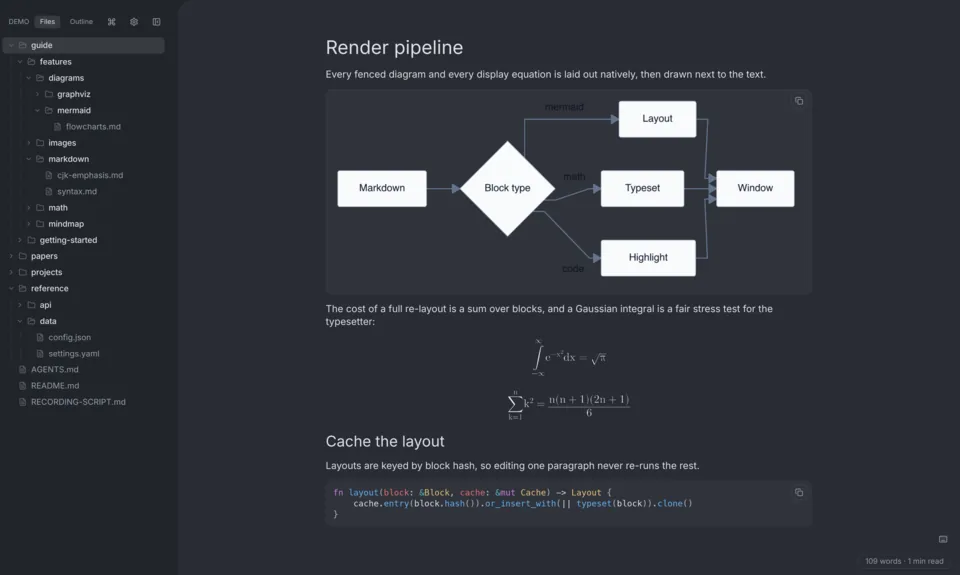
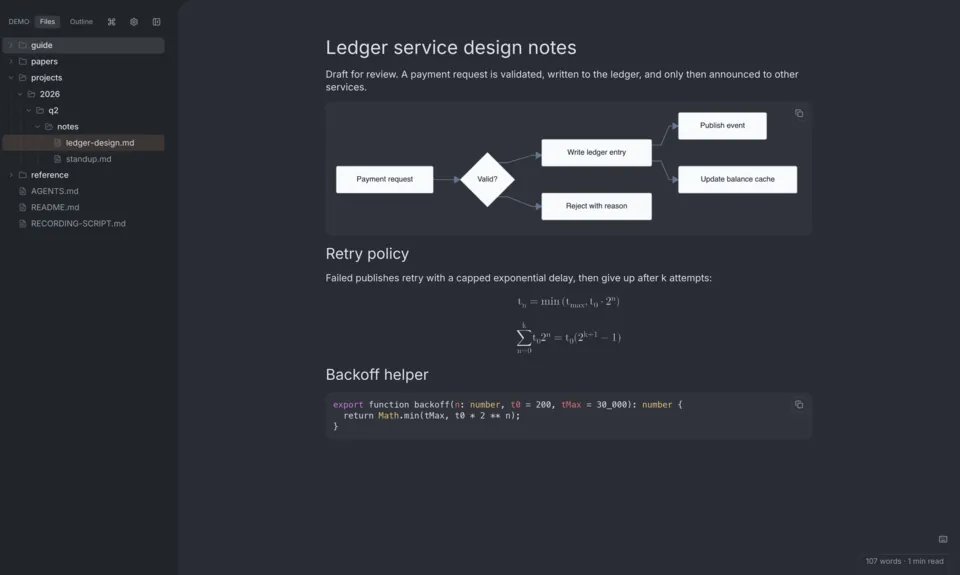
site: hero shows a user's design note, not claims about rmdv internals
Replace the invented pipeline/cache text with a service design note
(flowchart without edge labels, formula, code), opened from a demo copy
so the sidebar highlights the current file.

diff --git a/site/index.html b/site/index.html
@@ -315,9 +315,9 @@
           <img src="assets/shot-hero.webp"
                srcset="assets/shot-hero-960.webp 960w, assets/shot-hero.webp 1920w"
                sizes="(max-width: 800px) 100vw, 980px"
-               alt="rmdv showing a Mermaid flowchart above display math and a Rust code block, with the project file tree in the sidebar" width="1920" height="1149">
+               alt="rmdv showing a service design note with a Mermaid flowchart, display math, and a code block, with the project file tree in the sidebar" width="1920" height="1149">
         </button>
-        <figcaption><span>pipeline.md</span><span>One Dark · 100%</span></figcaption>
+        <figcaption><span>ledger-design.md</span><span>One Dark · 100%</span></figcaption>
       </figure>
     </div>
   </section>
